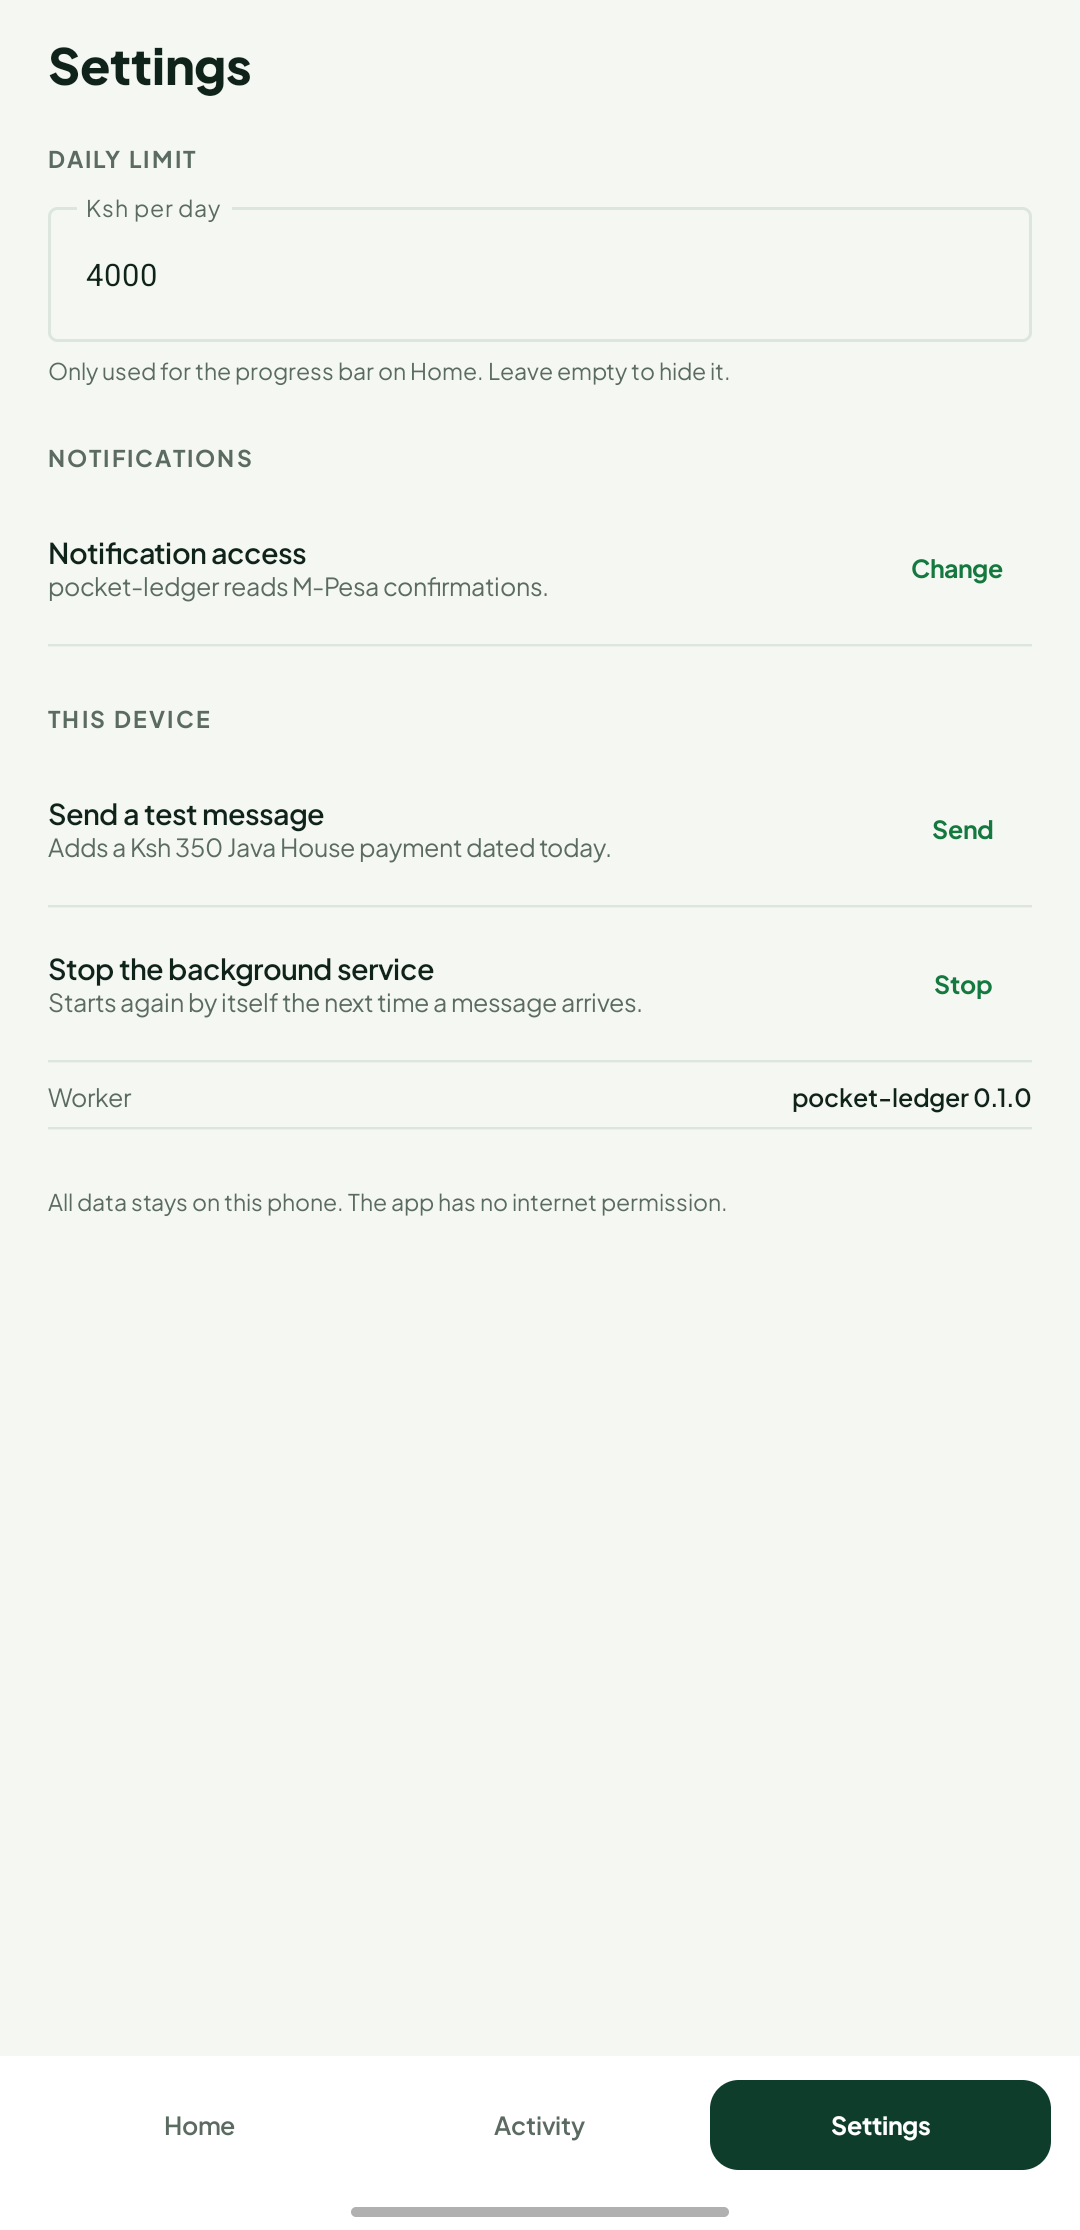
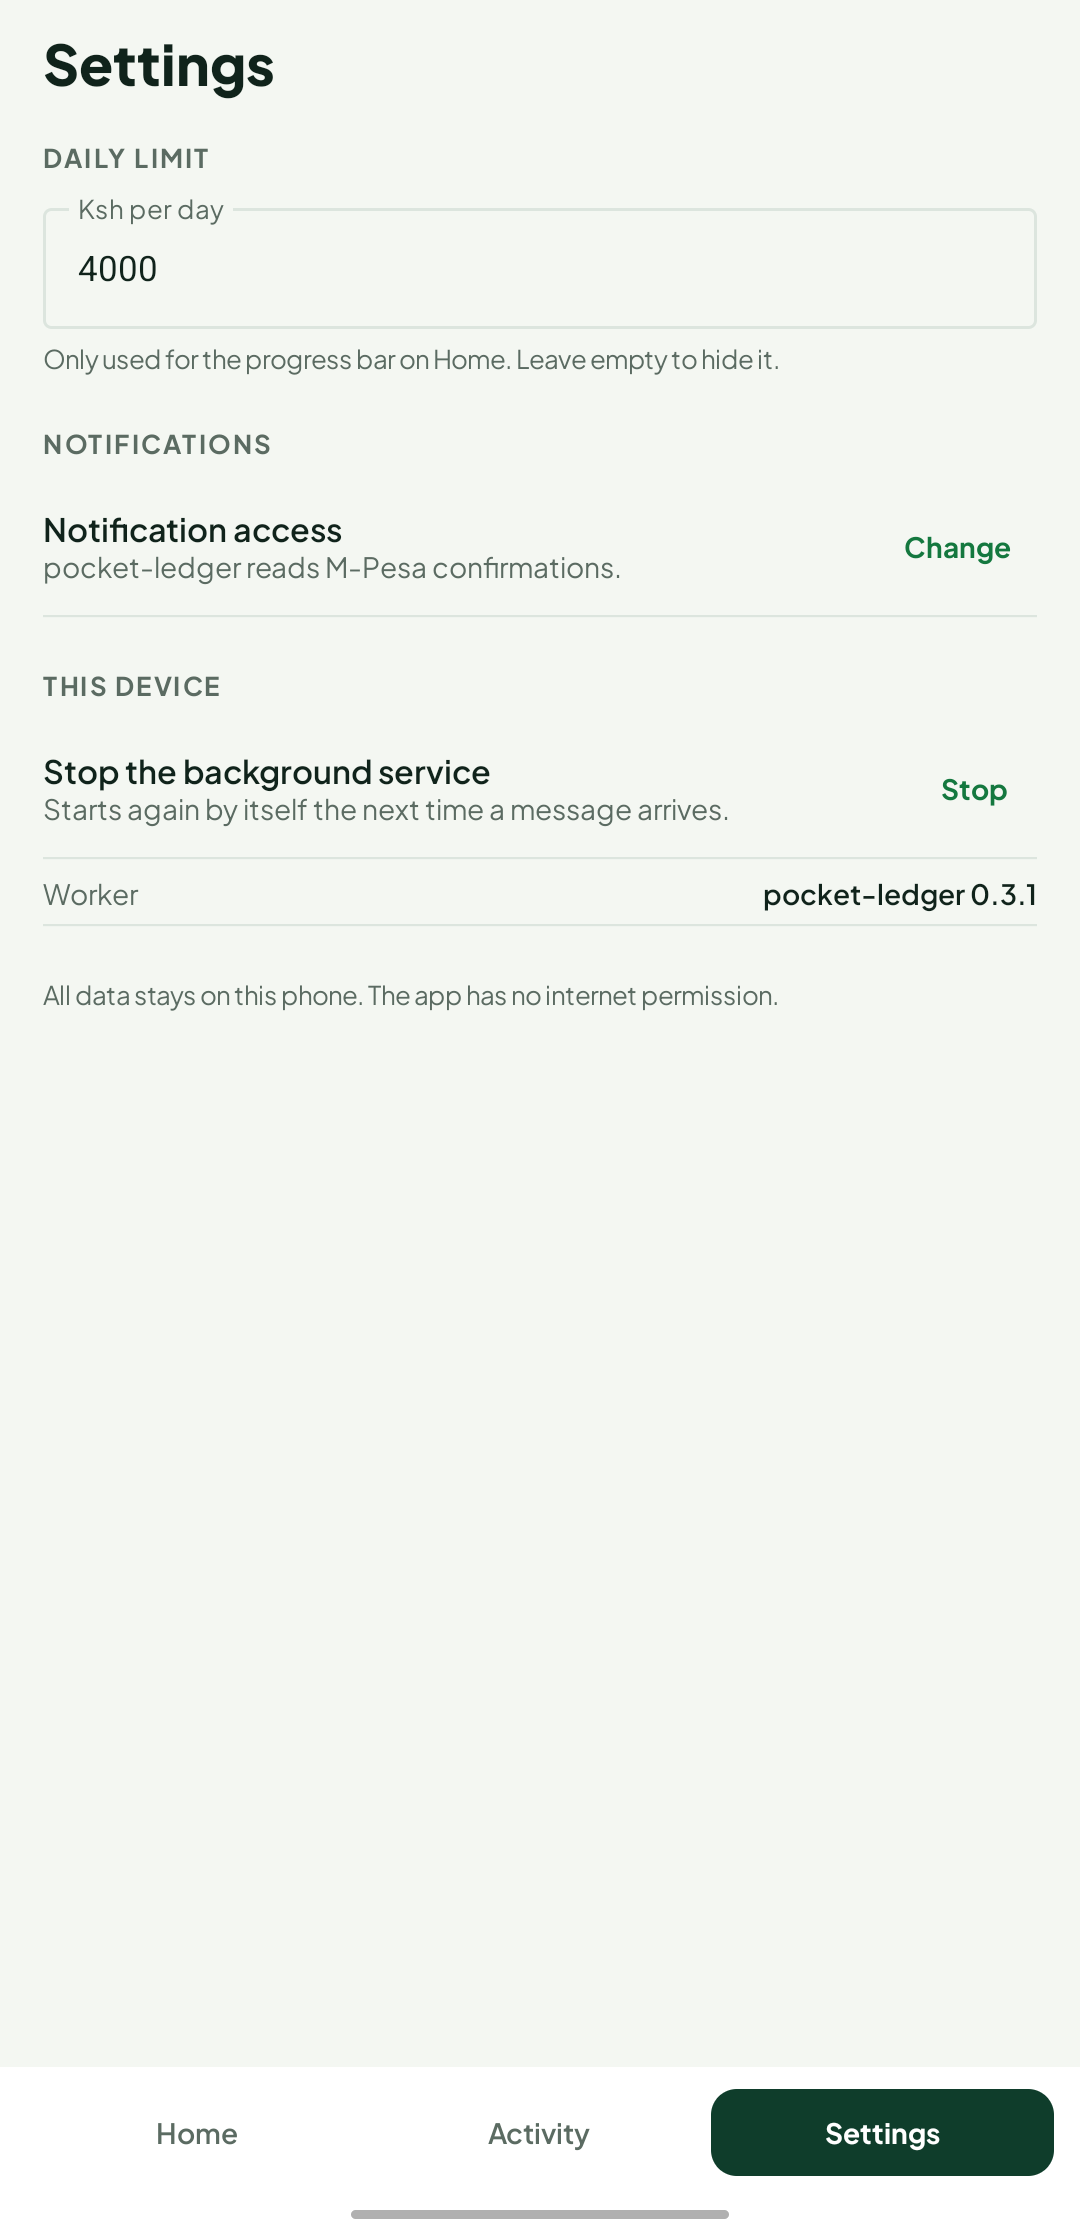
feat(android): 0.3.1 removes the test-message row, aligns crate versions
The "Send a test message" button wrote a real ledger row, so it did not belong
in a build people install. Removed it with its strings, callback and helper, and
recaptured media/ui/settings.png from 0.3.1 (installed over 0.3.0 with the same
key, data kept).

The Rust crates were still 0.1.0, so Settings reported "pocket-ledger 0.1.0" as
the worker version while the app said 0.3.0. All three crates are now 0.3.1, and
the Worker line reads 0.3.1.

Version: versionCode 4, versionName 0.3.1. Signed build: dist/, SHA-256
90f9531b...b249, same certificate. 67 tests, clippy and fmt clean.

diff --git a/android/app/src/main/java/com/pocketledger/ui/LedgerApp.kt b/android/app/src/main/java/com/pocketledger/ui/LedgerApp.kt
@@ -33,9 +33,6 @@ import kotlinx.coroutines.Dispatchers
 import kotlinx.coroutines.delay
 import kotlinx.coroutines.launch
 import kotlinx.coroutines.withContext
-import java.util.Calendar
-import java.util.Locale
-import java.util.Random
 
 /**
  * The app shell: first run, three tabs, and the two sheets.
@@ -128,12 +125,6 @@ fun LedgerApp(repository: LedgerRepository = rememberDefaultRepository()) {
                     LedgerPrefs.setDailyLimitCents(context, cents)
                 },
                 onGrantAccess = { openNotificationAccessSettings(context) },
-                onSendTestMessage = {
-                    scope.launch {
-                        withContext(Dispatchers.IO) { sendTestMessage(context) }
-                        refresh()
-                    }
-                },
                 onStopService = {
                     scope.launch {
                         withContext(Dispatchers.IO) { LedgerRuntime.stop() }
@@ -176,19 +167,4 @@ fun LedgerApp(repository: LedgerRepository = rememberDefaultRepository()) {
 private fun rememberDefaultRepository(): LedgerRepository {
     val context = LocalContext.current.applicationContext
     return remember(context) { JniLedgerRepository(context) }
-}
-
-/** Debug aid, also reachable from Settings: a confirmation dated today. */
-private fun sendTestMessage(context: android.content.Context) {
-    val now = Calendar.getInstance()
-    val date = "${now.get(Calendar.DAY_OF_MONTH)}/" +
-        "${now.get(Calendar.MONTH) + 1}/" +
-        "${now.get(Calendar.YEAR) % 100}"
-    val hour12 = ((now.get(Calendar.HOUR) + 11) % 12) + 1
-    val minute = String.format(Locale.US, "%02d", now.get(Calendar.MINUTE))
-    val meridiem = if (now.get(Calendar.AM_PM) == Calendar.PM) "PM" else "AM"
-    val code = "SJ" + String.format(Locale.US, "%08d", Random().nextInt(100_000_000))
-    val message = "$code Confirmed. Ksh350.00 paid to JAVA HOUSE. on $date at $hour12:$minute $meridiem. " +
-        "New M-PESA balance is Ksh684.56. Transaction cost, Ksh0.00."
-    LedgerRuntime.enqueue(context, message, System.currentTimeMillis() / 1000)
 }

diff --git a/android/app/src/main/java/com/pocketledger/ui/screens/SettingsScreen.kt b/android/app/src/main/java/com/pocketledger/ui/screens/SettingsScreen.kt
@@ -43,7 +43,6 @@ fun SettingsScreen(
     version: String,
     onDailyLimitChange: (Long) -> Unit,
     onGrantAccess: () -> Unit,
-    onSendTestMessage: () -> Unit,
     onStopService: () -> Unit,
     modifier: Modifier = Modifier,
 ) {
@@ -103,12 +102,6 @@ fun SettingsScreen(
         Spacer(Modifier.height(24.dp))
         SectionLabel(stringResource(R.string.settings_this_device))
         Spacer(Modifier.height(8.dp))
-        SettingRow(
-            title = stringResource(R.string.settings_test_title),
-            subtitle = stringResource(R.string.settings_test_body),
-            action = stringResource(R.string.settings_test_action),
-            onAction = onSendTestMessage,
-        )
         SettingRow(
             title = stringResource(R.string.settings_stop_title),
             subtitle = stringResource(R.string.settings_stop_body),

diff --git a/android/app/src/main/java/com/pocketledger/ui/previews/Previews.kt b/android/app/src/main/java/com/pocketledger/ui/previews/Previews.kt
@@ -109,7 +109,6 @@ private fun SettingsPreview() = Wrap {
         version = "pocket-ledger 0.3.0",
         onDailyLimitChange = {},
         onGrantAccess = {},
-        onSendTestMessage = {},
         onStopService = {},
     )
 }

diff --git a/docs/DEVICE_TEST.md b/docs/DEVICE_TEST.md
@@ -126,7 +126,7 @@ ABIs, and data seeded with synthetic M-Pesa notifications through the listener.
 |---|---|---|
 | `home.png` | phone | hero total, daily-limit bar, top categories, latest rows |
 | `activity.png` | phone | filters, day heading, done and needs-review rows |
-| `settings.png` | phone | daily limit, access, test message, stop service, worker version |
+| `settings.png` | phone | daily limit, access, stop service, worker version |
 | `details.png` | phone | code, balance after, Show original |
 | `home-revoked.png` | phone | persistent "Notification access is off" banner |
 | `home-200.png` | phone | 200% font scale, nothing clipped |
@@ -177,6 +177,16 @@ disturbing their home screen further.
 
 One thing this shows: a freshly installed app with an empty ledger draws `Ksh 0`
 (the empty state), not `Ksh —`; the dash only appears before the first snapshot exists.
+
+### 0.3.1: test button removed, versions aligned
+
+The `Send a test message` row is gone: it wrote a real ledger row, which does not belong
+in a daily-driver build. The Rust crate versions were aligned with the app at the same
+time, so Settings reports `pocket-ledger 0.3.1` instead of the stale `0.1.0`.
+
+Installed 0.3.1 over 0.3.0 with the same key (data kept). `uiautomator` shows no
+`Send a test message` row and `Worker / pocket-ledger 0.3.1`; `media/ui/settings.png` was
+recaptured from this build.
 
 ### Two bugs this pass found (and fixed)
 
